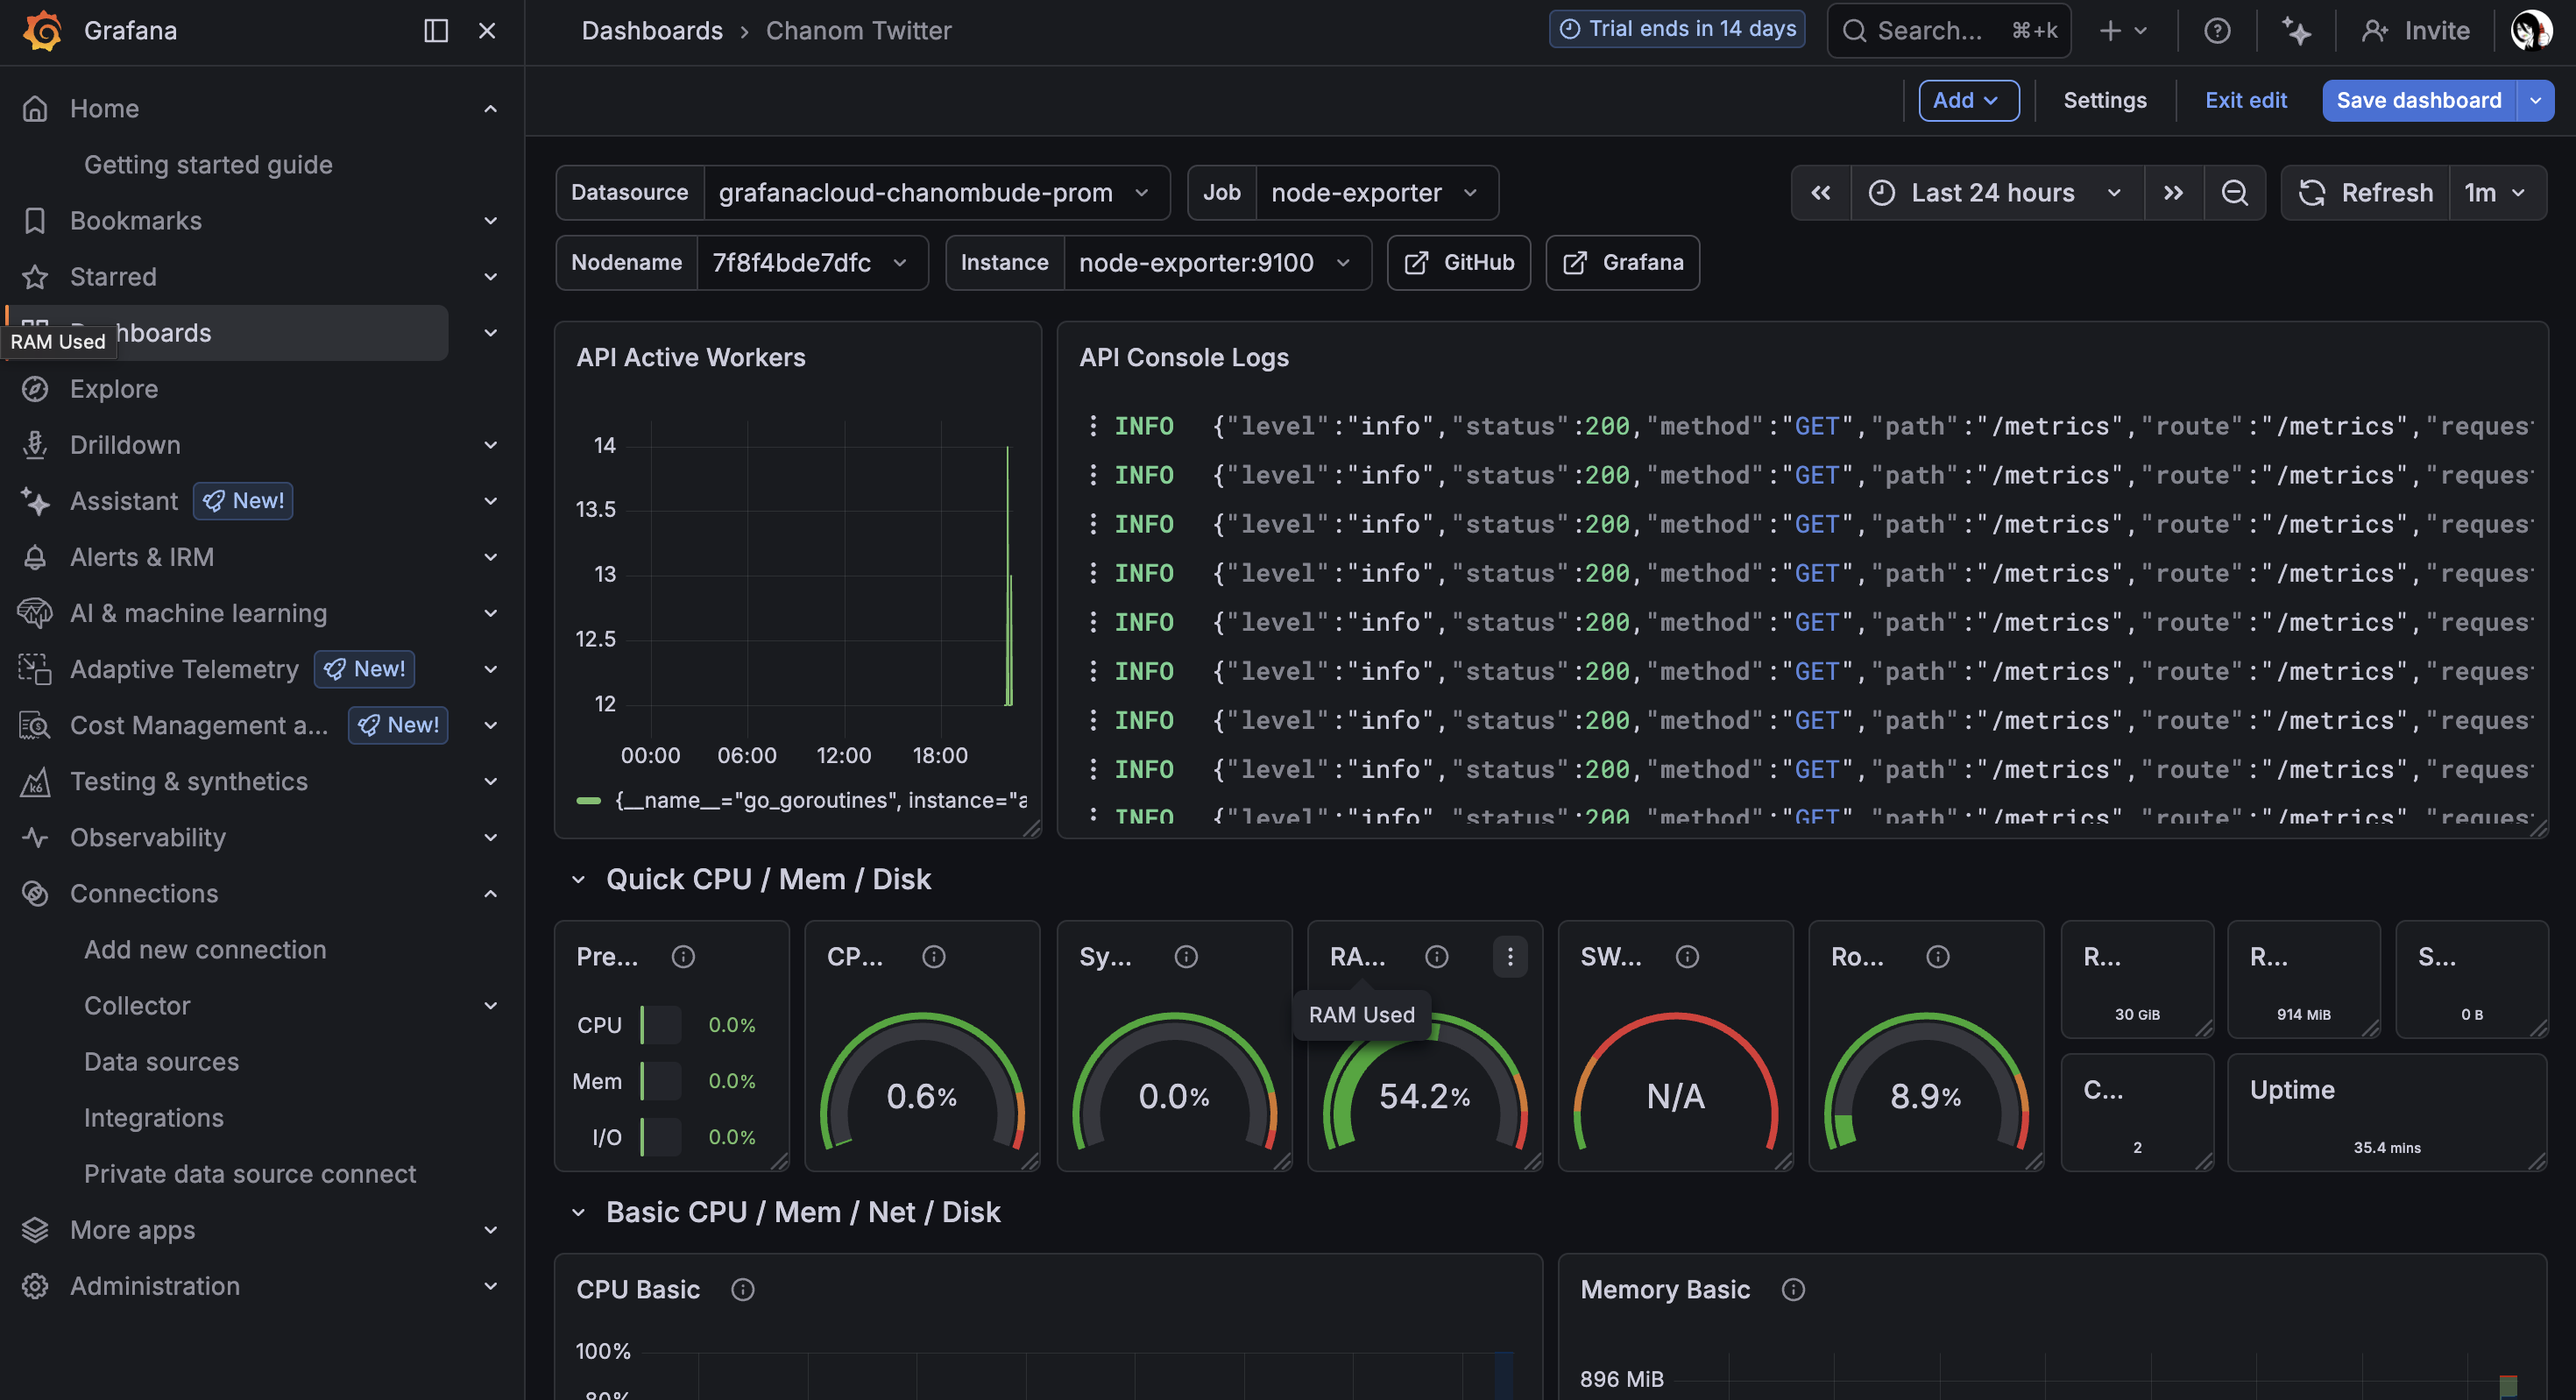
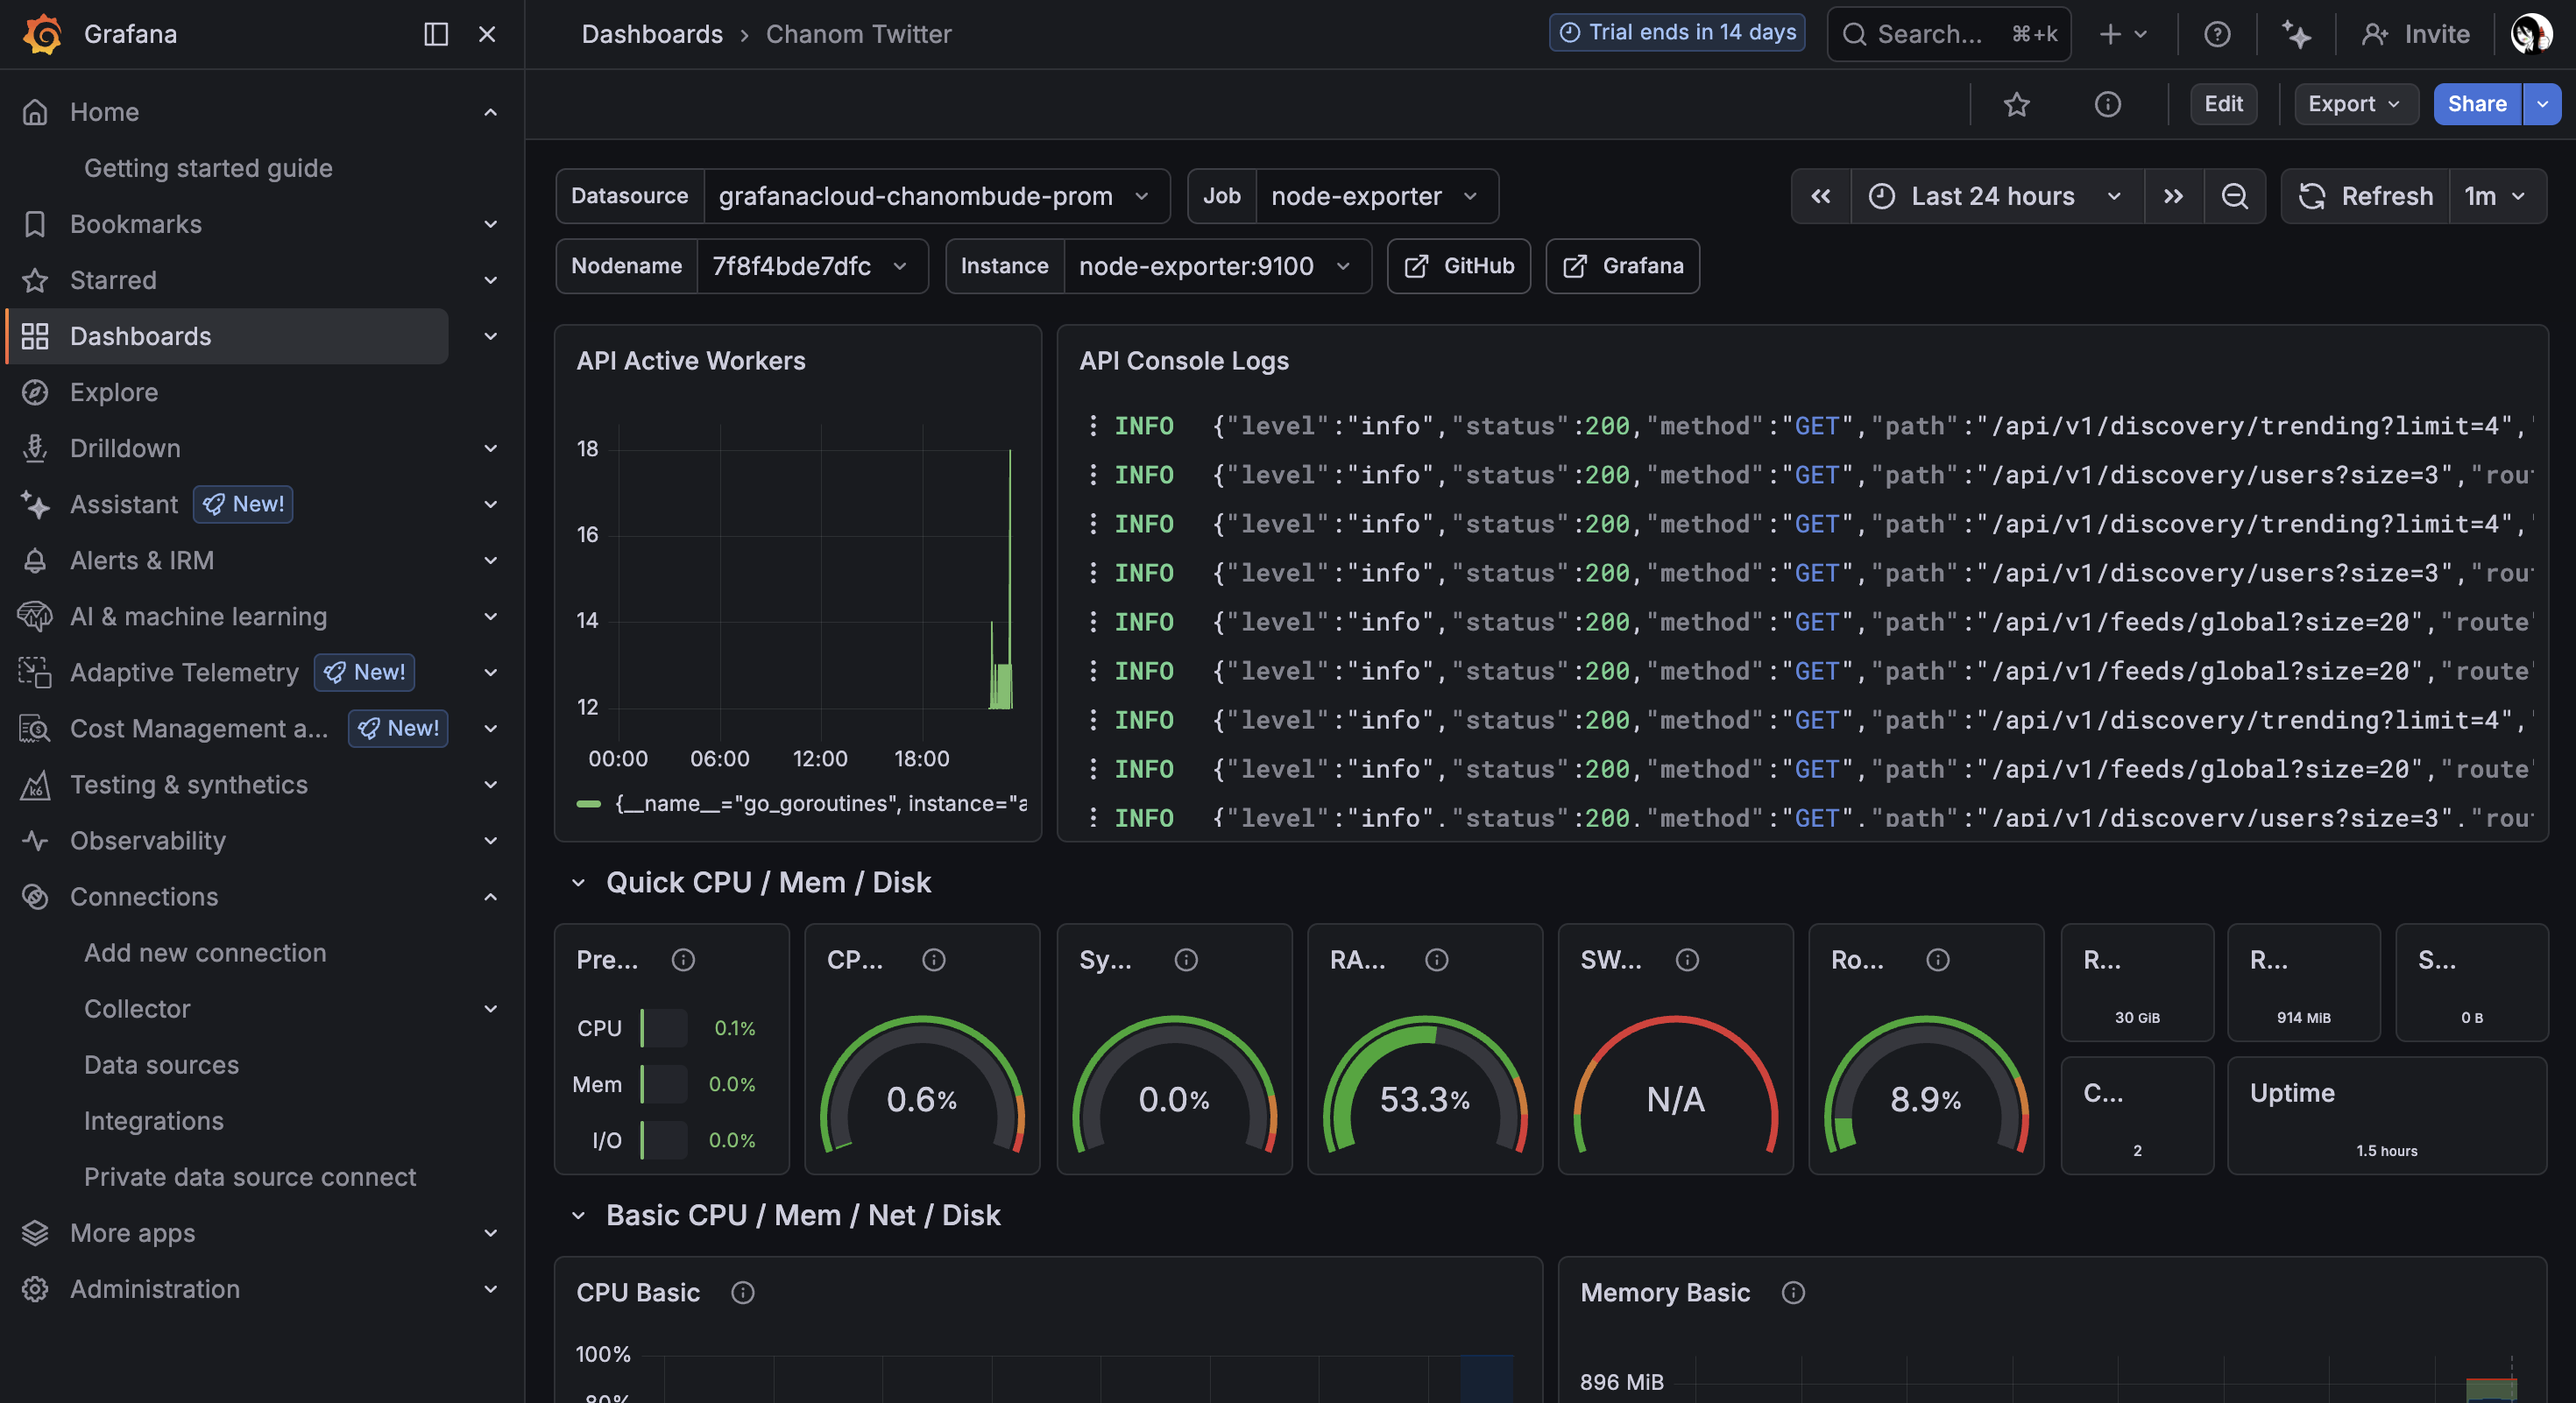
feat: skip internal health and metrics checks in logger to reduce noise and update Grafana dashboard image.

diff --git a/twitter-go-api/internal/logger/logger.go b/twitter-go-api/internal/logger/logger.go
@@ -29,6 +29,13 @@ func GinMiddleware() gin.HandlerFunc {
 		start := time.Now()
 		path := ctx.Request.URL.Path
 		raw := ctx.Request.URL.RawQuery
+
+		// Skip internal health and metrics checks to reduce log noise
+		if path == "/metrics" || path == "/healthz" || path == "/readyz" {
+			ctx.Next()
+			return
+		}
+
 		route := ctx.FullPath()
 		if route == "" {
 			route = path
